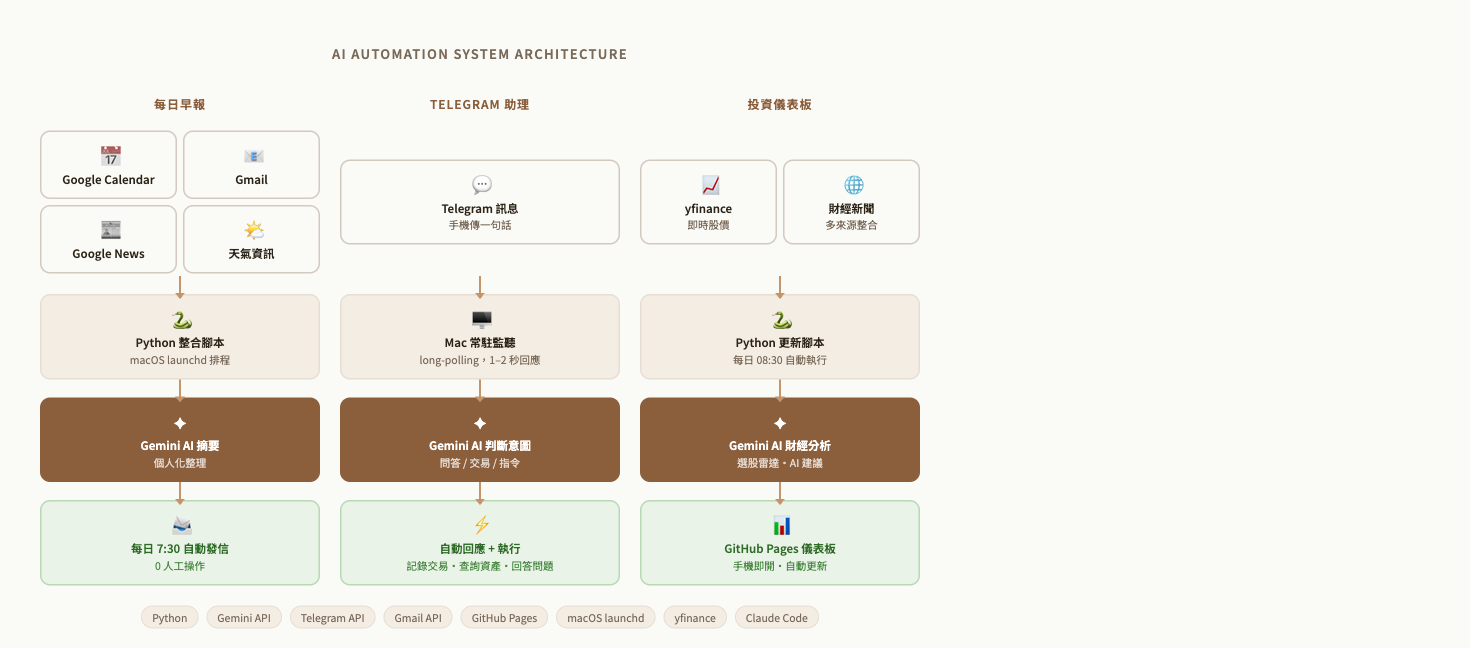
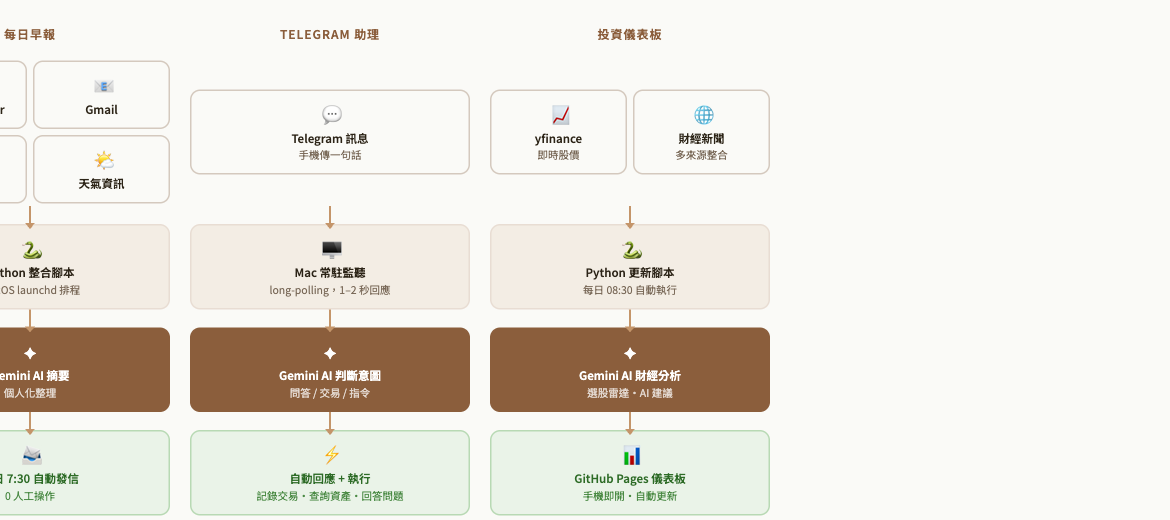
工具整合落地卡片：裁切圖片去除多餘留白，聚焦 Gemini AI 內容區

diff --git a/index.html b/index.html
@@ -103,7 +103,7 @@
 
         <div class="skill-card">
           <div class="skill-img-wrap">
-            <img src="assets/skill-ai.png" alt="工具整合落地" style="object-position: 35% top;">
+            <img src="assets/skill-ai.png" alt="工具整合落地">
           </div>
           <h3>⚙ 工具整合落地</h3>
           <p>好的流程需要工具支撐。擅長將需求轉化為實際運作方式，透過系統導入、工具整合與自動化設計，提升執行效率與資訊流通品質。</p>
